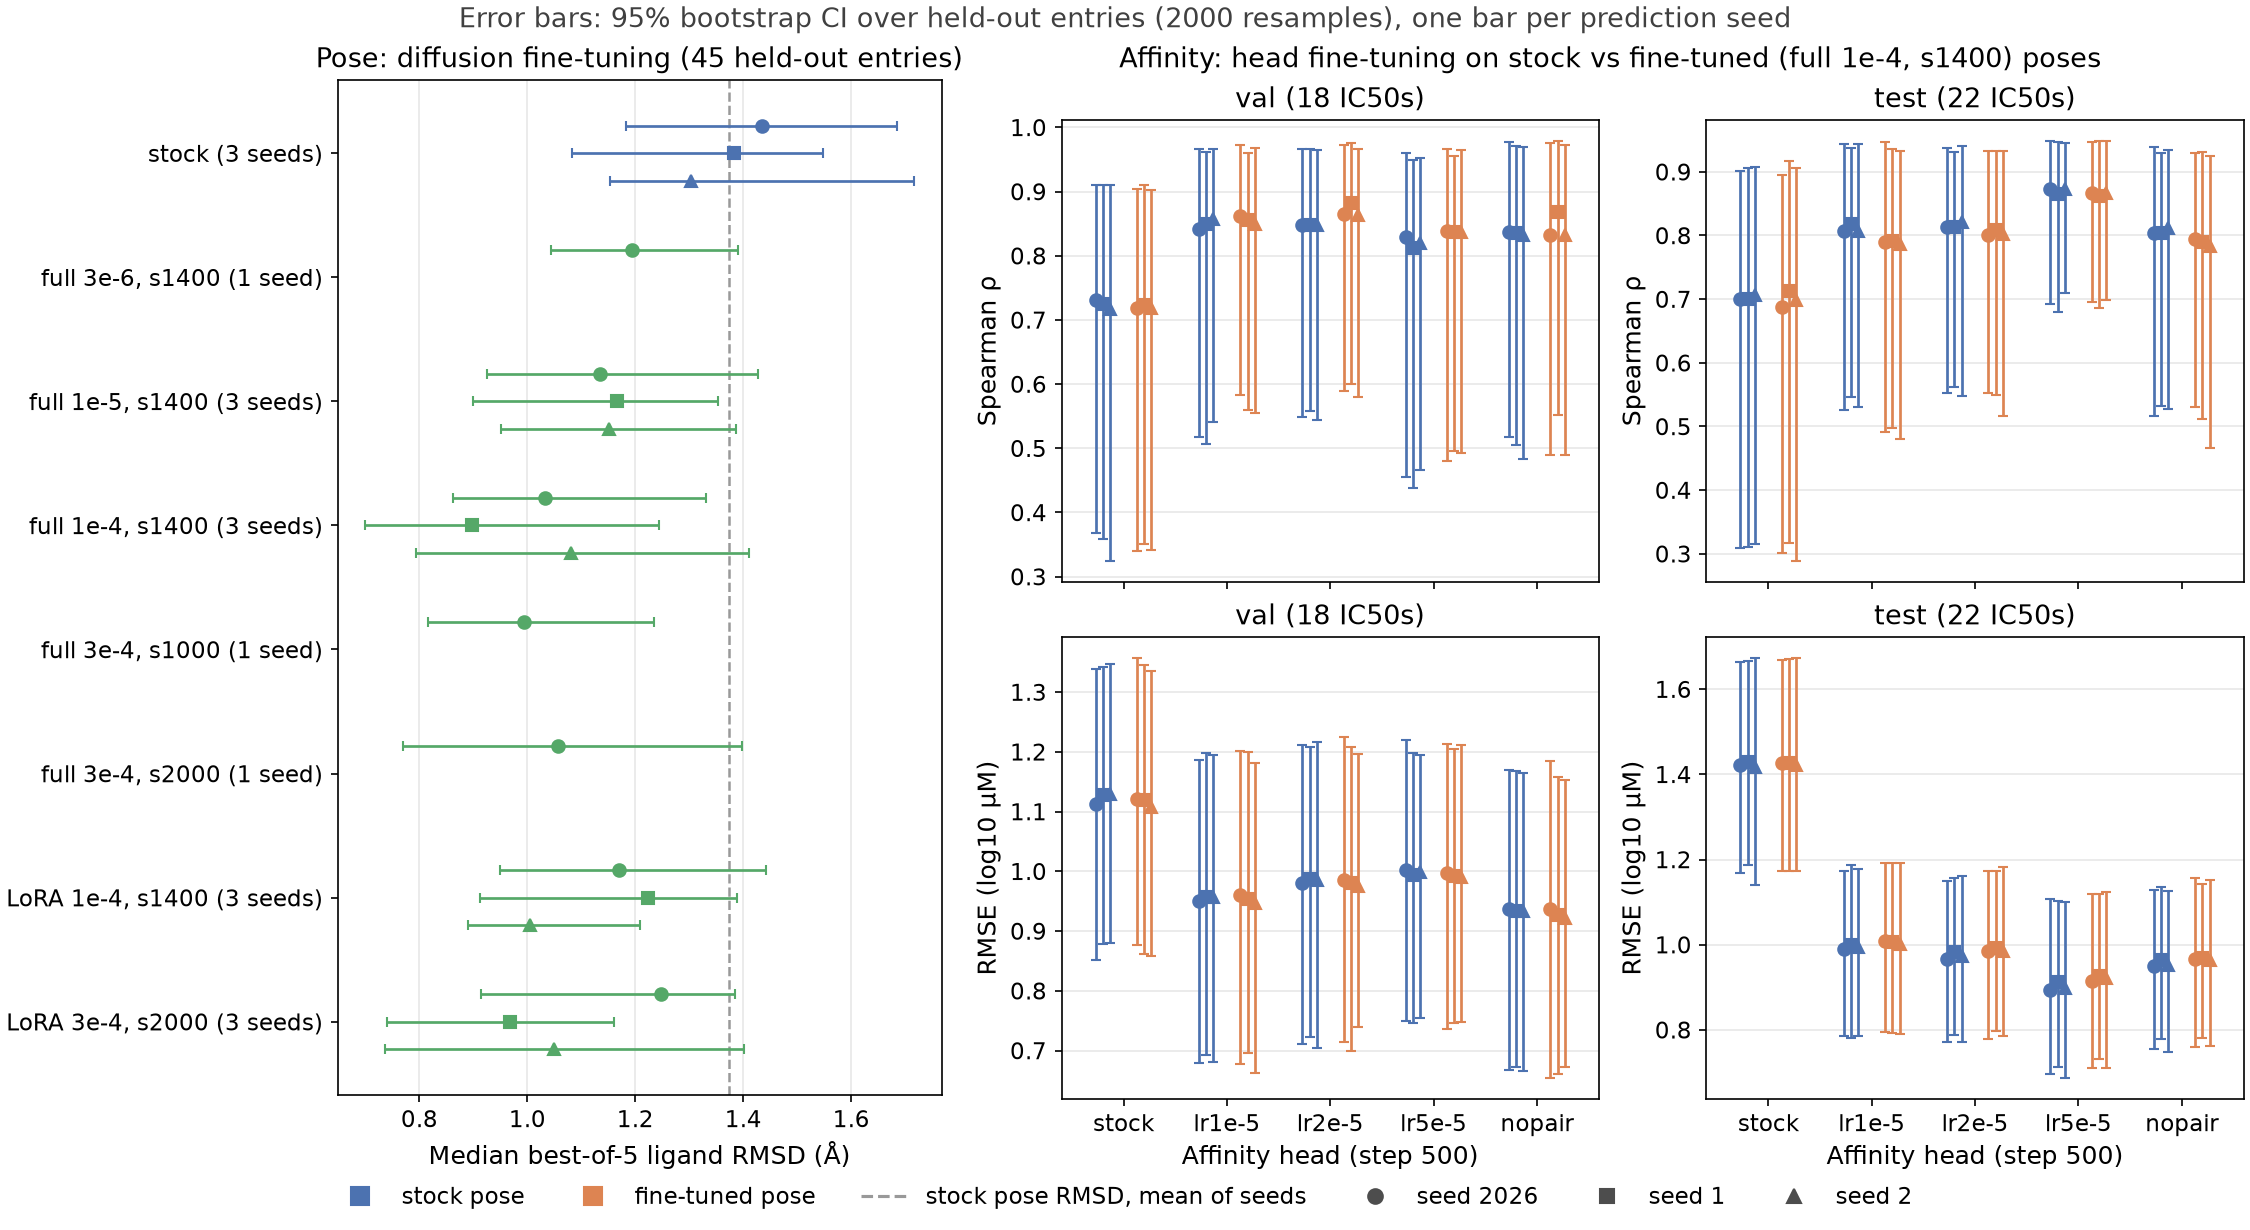
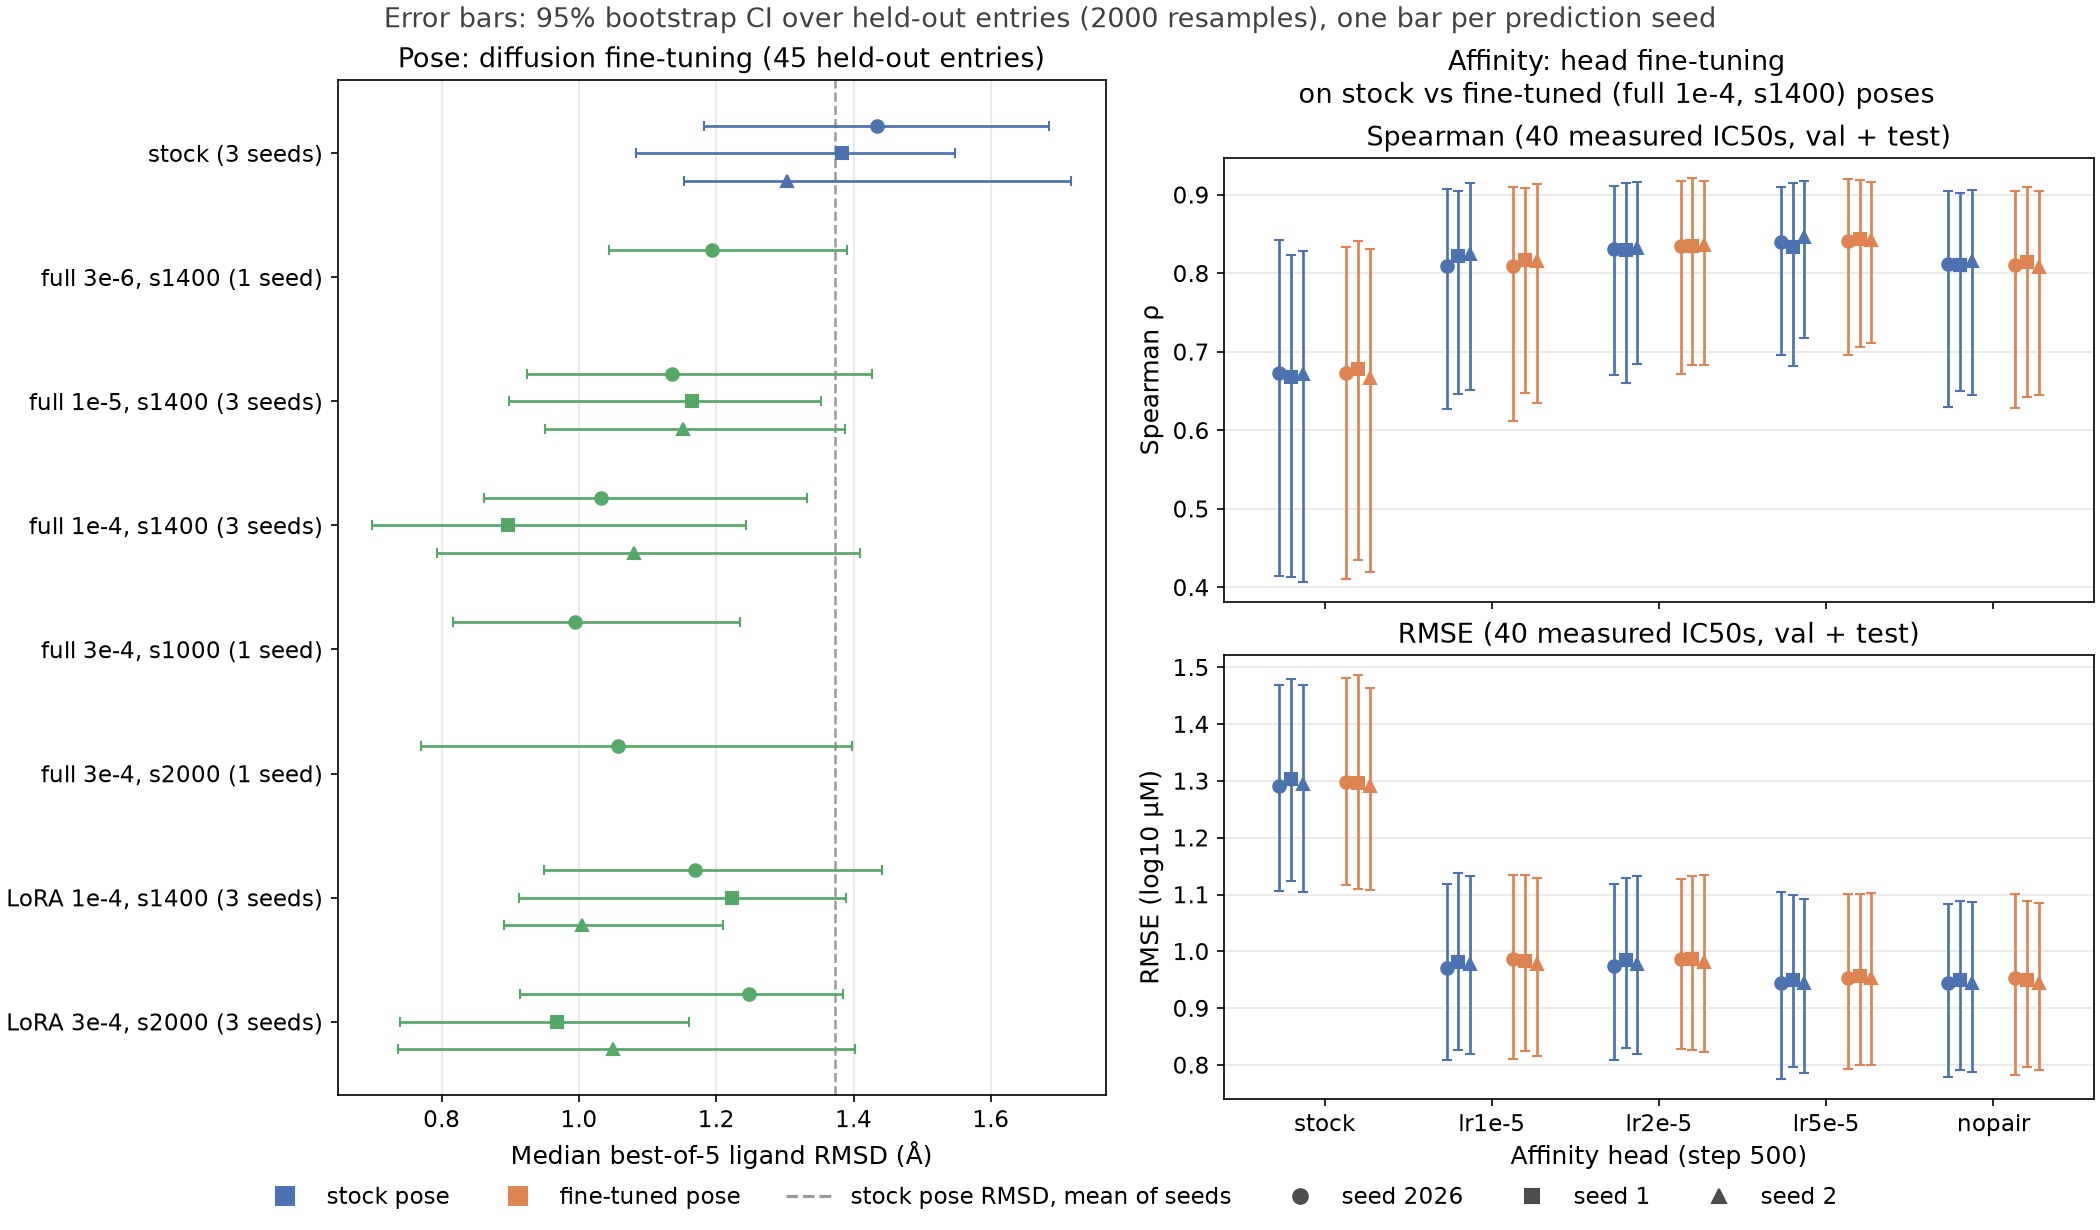
Pool val and test for affinity in report and at-a-glance figures; rerun bootstrap on all 40 measured IC50s

diff --git a/experiments/plot_results_glance.py b/experiments/plot_results_glance.py
@@ -1,4 +1,6 @@
-"""Results-at-a-glance figures for docs/report.md: pose (best-of-5 ligand RMSD) and affinity (Spearman, RMSE by split).
+"""Results-at-a-glance figures for docs/report.md: pose (best-of-5 ligand RMSD) and affinity (Spearman, RMSE).
+
+Val and test are pooled for both: the held-out set is 45 entries for pose and its 40 measured IC50s for affinity.
 
 Run: python experiments/plot_results_glance.py [--out-dir docs/figures]
 Writes two figures with the same layout and different error bars:
@@ -100,18 +102,17 @@ def pose_values(rng: np.random.Generator) -> list[dict]:
 
 def affinity_values(rng: np.random.Generator) -> list[dict]:
     reference = pd.read_csv(EVAL / "stock" / "eval_per_entry.csv").set_index("pdb_id")
+    entries = reference.index[reference["ic50_qualifier"] == "="]
+    truth = reference.loc[entries, "log10_ic50_uM"].to_numpy()
     rows = []
-    for split in ("val", "test"):
-        entries = reference.index[(reference["ic50_qualifier"] == "=") & (reference["split"] == split)]
-        truth = reference.loc[entries, "log10_ic50_uM"].to_numpy()
-        for pose, pose_run in POSES.items():
-            for head in HEADS:
-                for seed in SEEDS:
-                    pred = head_predictions(pose_run, seed, head).loc[entries].to_numpy()
-                    for metric, statistic in (("spearman", spearman), ("rmse", rmse)):
-                        low, high = bootstrap(statistic, (pred, truth), rng)
-                        rows.append({"split": split, "n": len(entries), "pose": pose, "head": head, "seed": seed, "metric": metric,
-                                     "value": statistic(pred, truth), "low": low, "high": high})
+    for pose, pose_run in POSES.items():
+        for head in HEADS:
+            for seed in SEEDS:
+                pred = head_predictions(pose_run, seed, head).loc[entries].to_numpy()
+                for metric, statistic in (("spearman", spearman), ("rmse", rmse)):
+                    low, high = bootstrap(statistic, (pred, truth), rng)
+                    rows.append({"n": len(entries), "pose": pose, "head": head, "seed": seed, "metric": metric,
+                                 "value": statistic(pred, truth), "low": low, "high": high})
     return rows
 
 
@@ -152,21 +153,19 @@ def plot_pose(axis: plt.Axes, rows: list[dict], mode: str) -> None:
 
 def plot_affinity(axes, rows: list[dict], mode: str) -> None:
     width = 0.2
-    for column, split in enumerate(("val", "test")):
-        for row_index, metric in enumerate(("spearman", "rmse")):
-            axis = axes[row_index][column]
-            for pose_index, pose in enumerate(POSES):
-                for head_index, head in enumerate(HEADS):
-                    selected = [row for row in rows if (row["split"], row["metric"], row["pose"], row["head"]) == (split, metric, pose, head)]
-                    draw(axis, head_index + (pose_index - 0.5) * 2 * width, selected, mode, POSE_COLORS[pose], False, 0.07)
-            count = next(row["n"] for row in rows if row["split"] == split)
-            axis.set_xticks(range(len(HEADS)), ["stock" if head == "stock" else head.replace("aff_", "") for head in HEADS])
-            axis.set_xlim(-0.6, len(HEADS) - 0.4)
-            axis.grid(axis="y", alpha=0.3)
-            axis.set_title(f"{split} ({count} IC50s)")
-            axis.set_ylabel("Spearman ρ" if metric == "spearman" else "RMSE (log10 µM)")
-            if row_index == 1:
-                axis.set_xlabel("Affinity head (step 500)")
+    count = rows[0]["n"]
+    for row_index, metric in enumerate(("spearman", "rmse")):
+        axis = axes[row_index]
+        for pose_index, pose in enumerate(POSES):
+            for head_index, head in enumerate(HEADS):
+                selected = [row for row in rows if (row["metric"], row["pose"], row["head"]) == (metric, pose, head)]
+                draw(axis, head_index + (pose_index - 0.5) * 2 * width, selected, mode, POSE_COLORS[pose], False, 0.07)
+        axis.set_xticks(range(len(HEADS)), ["stock" if head == "stock" else head.replace("aff_", "") for head in HEADS])
+        axis.set_xlim(-0.6, len(HEADS) - 0.4)
+        axis.grid(axis="y", alpha=0.3)
+        axis.set_title(f"{'Spearman' if metric == 'spearman' else 'RMSE'} ({count} measured IC50s, val + test)")
+        axis.set_ylabel("Spearman ρ" if metric == "spearman" else "RMSE (log10 µM)")
+    axes[1].set_xlabel("Affinity head (step 500)")
 
 
 def legend_handles(mode: str) -> list:
@@ -181,17 +180,17 @@ def legend_handles(mode: str) -> list:
 
 
 def make_figure(pose_rows: list[dict], affinity_rows: list[dict], mode: str, path: Path) -> None:
-    figure = plt.figure(figsize=(15, 8.2), layout="constrained")
+    figure = plt.figure(figsize=(14, 8.2), layout="constrained")
     if mode == "seeds":
         figure.suptitle("Error bars: 95% CI over prediction seeds (2026, 1, 2), not over entries; small dots are the individual seeds",
                         fontsize=13, color="0.25")
     else:
         figure.suptitle("Error bars: 95% bootstrap CI over held-out entries (2000 resamples), one bar per prediction seed",
                         fontsize=13, color="0.25")
-    left, right = figure.subfigures(1, 2, width_ratios=[1, 1.35])
+    left, right = figure.subfigures(1, 2, width_ratios=[1.15, 1])
     plot_pose(left.subplots(), pose_rows, mode)
-    right.suptitle("Affinity: head fine-tuning on stock vs fine-tuned (full 1e-4, s1400) poses", fontsize=13)
-    plot_affinity(right.subplots(2, 2, sharex=True), affinity_rows, mode)
+    right.suptitle("Affinity: head fine-tuning\non stock vs fine-tuned (full 1e-4, s1400) poses", fontsize=13)
+    plot_affinity(right.subplots(2, 1, sharex=True), affinity_rows, mode)
     figure.legend(handles=legend_handles(mode), loc="outside lower center", ncol=7 if mode == "bootstrap" else 4, frameon=False)
     figure.savefig(path, dpi=150)
     print(f"wrote {path}")

diff --git a/docs/report.md b/docs/report.md
@@ -4,7 +4,9 @@ Status as of 2026-10-15. Built from the running logs in this directory; each sec
 
 ## Results at a glance
 
-Both figures show the same numbers with different error bars. Left: diffusion fine-tuning, median best-of-5 pocket-aligned ligand RMSD (lower is better). Right: affinity-head fine-tuning (step 500), Spearman (top) and RMSE in log10 uM (bottom) on measured IC50s, by split, with each head scored on stock poses (blue) and on poses from the `full_lr1e-4` step 1400 structure fine-tune (orange). Run labels give the number of prediction seeds; three runs (full 3e-6, full 3e-4 at steps 1000 and 2000) were predicted at one seed only.
+Both figures show the same numbers with different error bars. Left: diffusion fine-tuning, median best-of-5 pocket-aligned ligand RMSD on the 45 held-out entries (lower is better). Right: affinity-head fine-tuning (step 500), Spearman (top) and RMSE in log10 uM (bottom) on the 40 measured IC50s, with each head scored on stock poses (blue) and on poses from the `full_lr1e-4` step 1400 structure fine-tune (orange). Run labels give the number of prediction seeds; three runs (full 3e-6, full 3e-4 at steps 1000 and 2000) were predicted at one seed only.
+
+**Val and test are pooled** for both pose and affinity. They are built the same way (ligand clusters shuffled into val and test), and checkpoints and runs were chosen on all 45 entries, so neither is an untouched test set; one pooled estimate is less noisy than two on 18 and 22 IC50s. A clean test number would need selection on val only, then a single test evaluation (next steps, item 1).
 
 **Held-out set.** The 45 entries are all Mac1 crystal structures with an IC50 and a deposited ligand pose in the val (21) or test (24) split. None is used in any training. They cover 15 ligand clusters (8 val, 7 test) that the split keeps apart from training clusters, and were released 2025-05 to 2026-09, after the Boltz-2 training cutoff. Sources: Correy et al. *Sci. Adv.* 2025 (24), Jaishankar et al. *J. Med. Chem.* 2025 (18), Suryawanshi et al. *eLife* 2025 (2), Xu et al. *Nature* 2026 (1). Resolution 0.80-1.11 A; IC50 0.02-1000 uM. The pose metric uses all 45 (5 samples each, the median over entries per run). Affinity uses the 40 measured (`=`) IC50s (18 val, 22 test); the 5 censored ones are scored separately. Deposited ligand occupancy is low (median 0.34), so the reference poses are only weakly supported by density.
 
@@ -170,14 +172,14 @@ Details: [`finetuning_plan.md`](finetuning_plan.md). Trainable: `affinity_module
 
 All jobs died just after step 500 on an NCCL all-reduce watchdog timeout (same collective sequence number in all three 4-GPU jobs); step 500 weights and evaluations are complete and step 500 is used.
 
-| Pose | Head | Spearman | RMSE | Bias | MAE | Spearman val / test |
-|---|---|---|---|---|---|---|
-| stock | stock | 0.68 | 1.31 | +0.99 | 1.14 | 0.71 / 0.70 |
-| fine-tuned | stock | 0.67 | 1.30 | +0.98 | 1.14 | 0.72 / 0.69 |
-| fine-tuned | `aff_lr1e-5` | 0.81 | 0.99 | +0.65 | 0.82 | 0.86 / 0.79 |
-| fine-tuned | `aff_lr2e-5` | 0.84 | 0.99 | +0.66 | 0.83 | 0.87 / 0.80 |
-| fine-tuned | `aff_lr5e-5` | 0.84 | 0.95 | +0.60 | 0.81 | 0.84 / 0.87 |
-| fine-tuned | `aff_nopair` (no pairwise term) | 0.81 | 0.95 | +0.61 | 0.79 | 0.83 / 0.79 |
+| Pose | Head | Spearman | RMSE | Bias | MAE |
+|---|---|---|---|---|---|
+| stock | stock | 0.68 | 1.31 | +0.99 | 1.14 |
+| fine-tuned | stock | 0.67 | 1.30 | +0.98 | 1.14 |
+| fine-tuned | `aff_lr1e-5` | 0.81 | 0.99 | +0.65 | 0.82 |
+| fine-tuned | `aff_lr2e-5` | 0.84 | 0.99 | +0.66 | 0.83 |
+| fine-tuned | `aff_lr5e-5` | 0.84 | 0.95 | +0.60 | 0.81 |
+| fine-tuned | `aff_nopair` (no pairwise term) | 0.81 | 0.95 | +0.61 | 0.79 |
 
 Paired, over the 40 measured entries (2000 bootstrap resamples):
 
